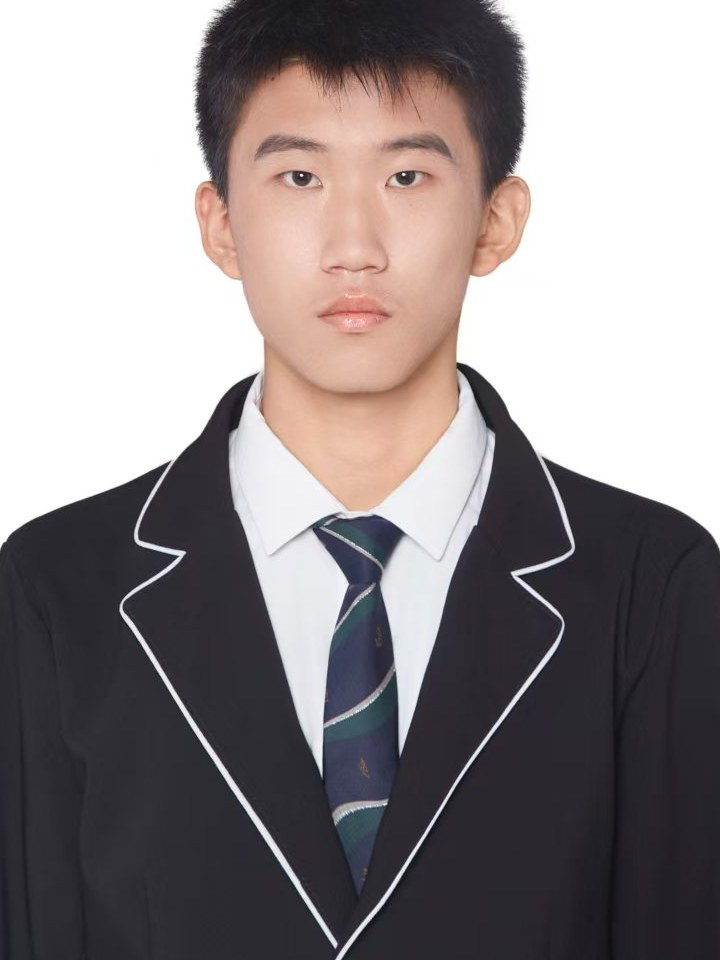
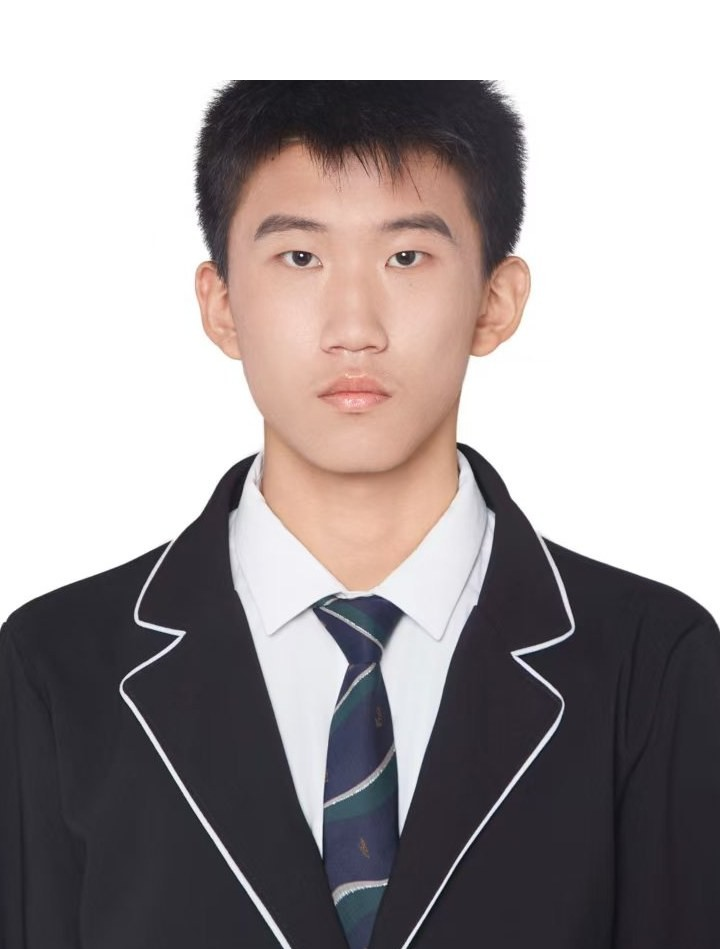
Refresh Team page: new group intro and research-vision figure, new portraits
- Rewrite the MobiX introduction (two paragraphs). Bold is now reserved for the
  group name, the four research directions and the three values (8 marks); the
  institution, PI name and the four verbs in the opening sentence are no longer
  bold, keeping prose narrative legible.
- Replace the hero figure: old MobiX.png (1408x768, 2.2 MB, dark, 3 blocks) is
  dropped for MobiX-vision.jpg (1672x941, 293 KB, light, 4 blocks matching the
  new intro plus the SENSE->OPTIMIZE loop). Add a dark-theme border to
  .team-hero so the light figure sits cleanly on dark pages.
- Jiaying Chen: real portrait, and degree now reads M.Sc. in Electronics.
- Yimeng Duan: add 80px of backdrop headroom so the face sits lower in the
  frame; result is 720x949 (0.759), matching the 110x145 card exactly.

diff --git a/_pages/team.md b/_pages/team.md
@@ -7,10 +7,12 @@ nav: true
 nav_order: 2
 ---
 
-The **MobiX** (_Mobile Intelligence & eXploration_) research group is dedicated to advancing the vision of smart mobility. We explore and develop innovative systems driven by efficient mobile sensing, ubiquitous computing, and mobility data analytics. Our research spans urban computing, the Artificial Internet of Things (AIoT), and spatio-temporal data mining.
+**MobiX** (_Mobile Intelligence & eXploration_) is a research group at The Hong Kong University of Science and Technology (Guangzhou), led by Dr. Zhidan Liu. We build intelligent systems that sense and understand the world, act autonomously through mobile interfaces, operate efficiently on resource-constrained devices, and support decisions at city scale.
+
+Our research brings together **mobile sensing and human-centric computing**, **mobile/GUI agents**, **edge intelligence**, and **urban computing**. Across these areas, we develop algorithms and systems for multimodal perception, foundation-model reasoning, adaptive computation, and data-driven decision-making. We value **problem-driven research**, **reliable real-world deployment**, and **rigorous experimental evaluation**.
 
 <div align="center">
-<img src="{{ '/images/MobiX.png' | relative_url }}" alt="Research directions of the MobiX group" class="team-hero">
+<img src="{{ '/images/MobiX-vision.jpg' | relative_url }}" alt="MobiX research vision: real-world mobile intelligence, from people and devices to intelligent cities" class="team-hero">
 </div>
 
 <div class="team-hiring">
